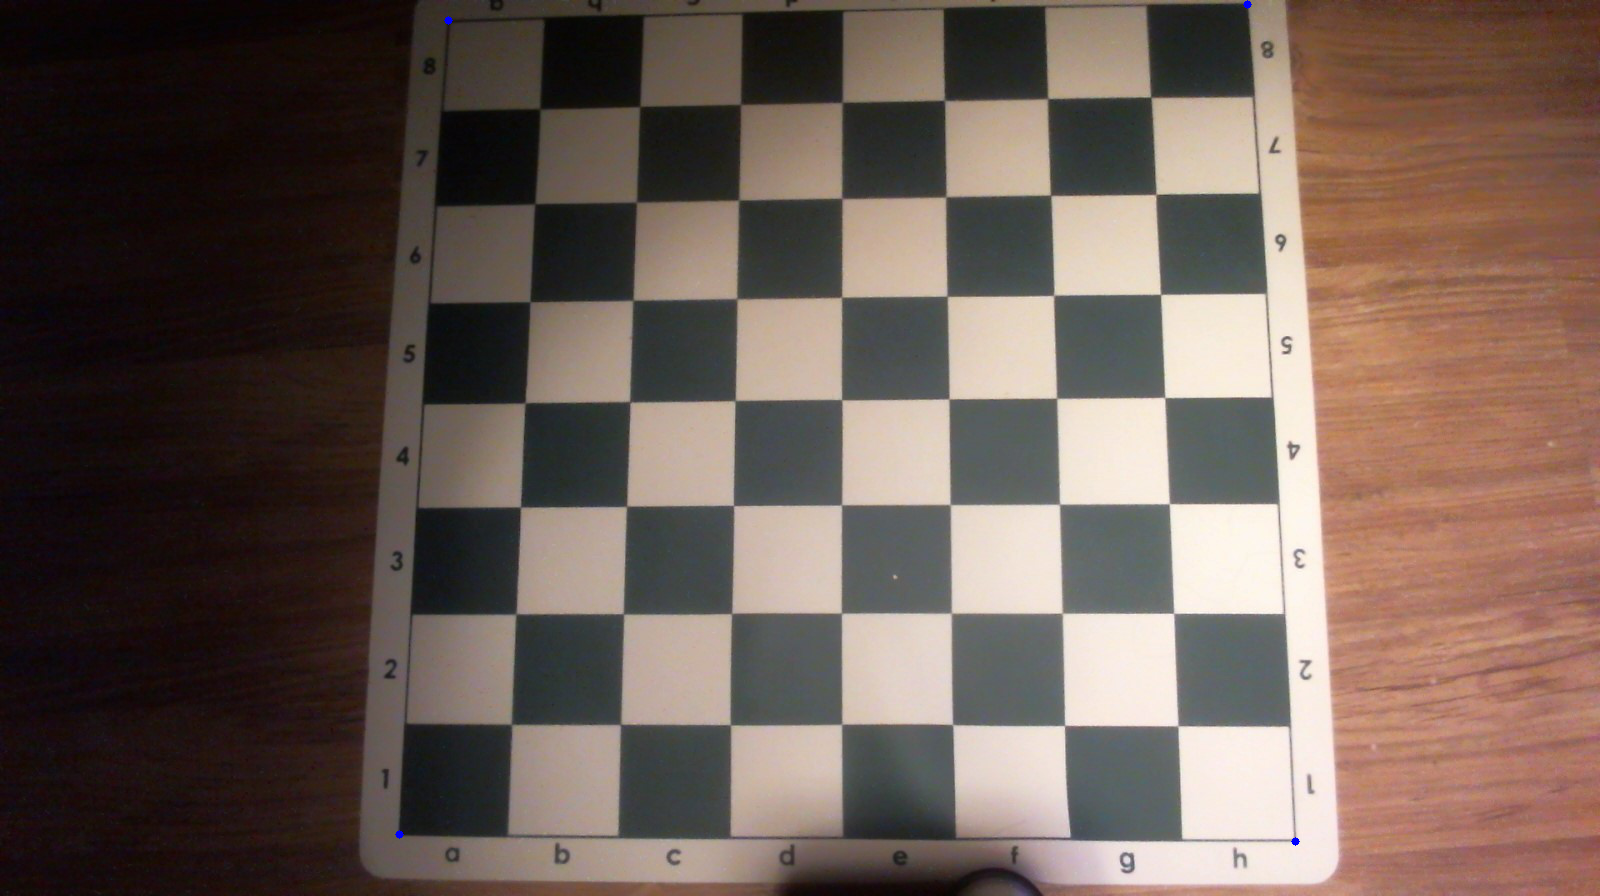
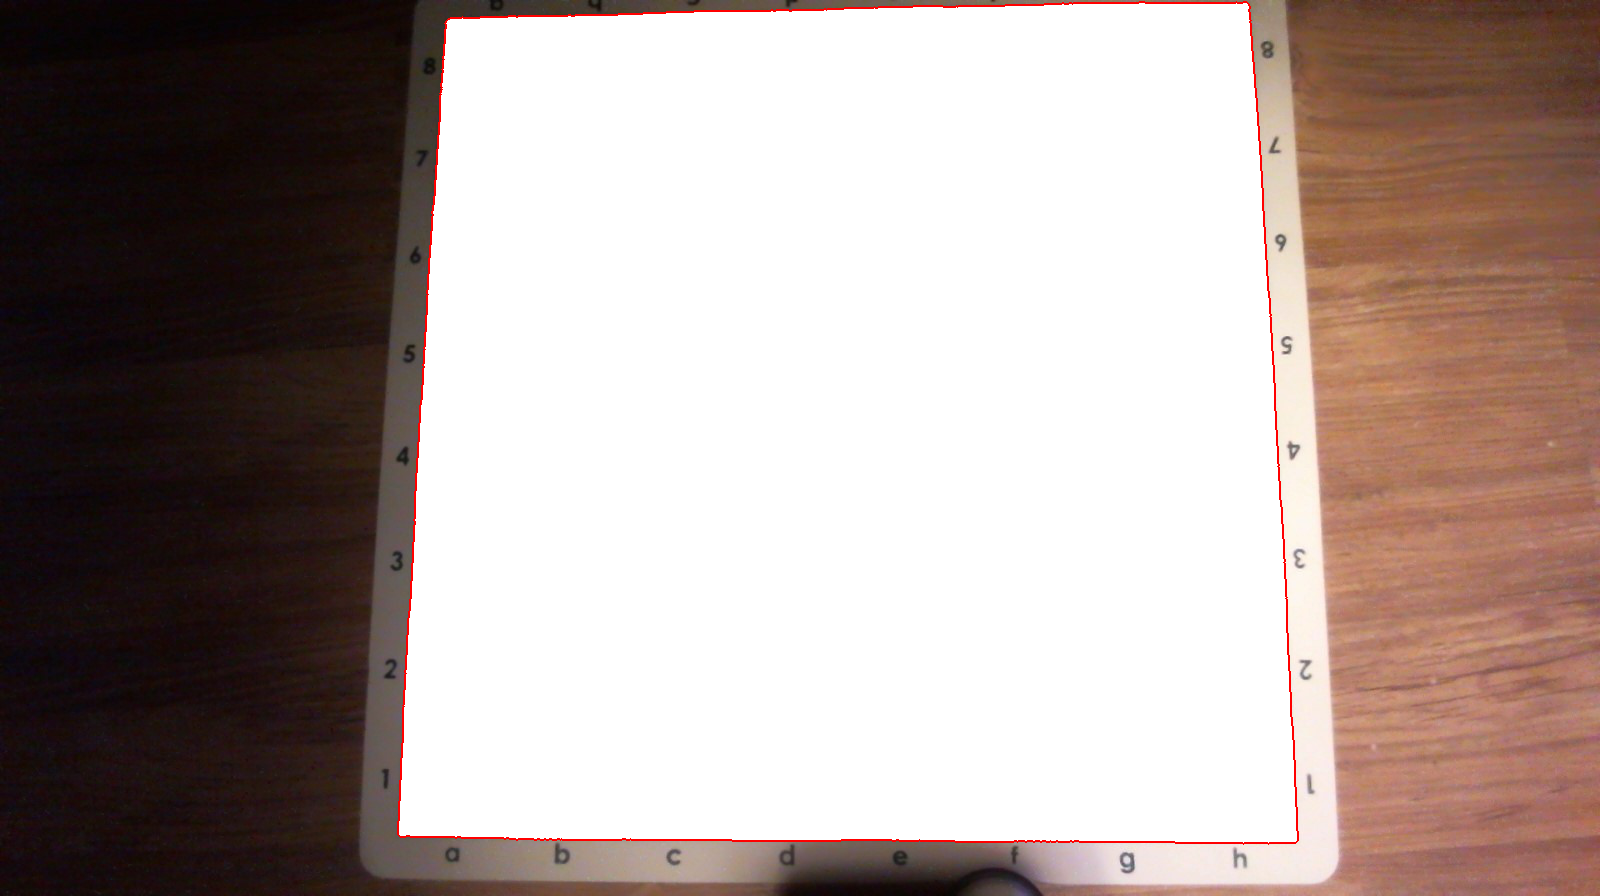
mask from board contour created

diff --git a/real_board.py b/real_board.py
@@ -74,10 +74,6 @@ gray = cv2.GaussianBlur(gray,(5,5),0)
 thresh = cv2.adaptiveThreshold(gray,255,1,1,11,2)
 
 
-
-
-cv2.imshow('image',orig)
-cv2.imshow('gray',gray)
 cv2.imshow('thresh',thresh)
 
 im2, contours, hierarchy = cv2.findContours(thresh, cv2.RETR_TREE, cv2.CHAIN_APPROX_SIMPLE)
@@ -96,21 +92,22 @@ for i in contours:
                 if area > max_area and len(approx)==4:
                         biggest = approx
                         max_area = area
-                        print ("approx: ")
-                        #print (index)
-                        #bigest=i
+                        m_c = i # main countur
 
-#cv2.drawContours(orig,contours[bigest],0,255,-1)
-print (biggest)
 
 _4_corners=rectify(biggest)
-z=3
-for i in _4_corners:
-    cv2.circle(orig,(i[0],i[1]), z, (255,0,0), -1)
-    z=z+2
 
 
-cv2.imshow('contour',orig)
+###drawing the board border
+cv2.drawContours(orig, [m_c], 0, (0,0,255), 4)
+board=cv2.fillPoly(orig, pts =[m_c], color=(255,255,255))
+cv2.imshow('board',orig)
+
+
+###crating binary iamge from border
+mask = np.ones(orig.shape,np.uint8)
+board=cv2.fillPoly(mask, pts =[m_c], color=(255,255,255))
+cv2.imshow('mask',mask)
 
 if cv2.waitKey(0) & 0xff == 27:
     cv2.destroyAllWindows()
